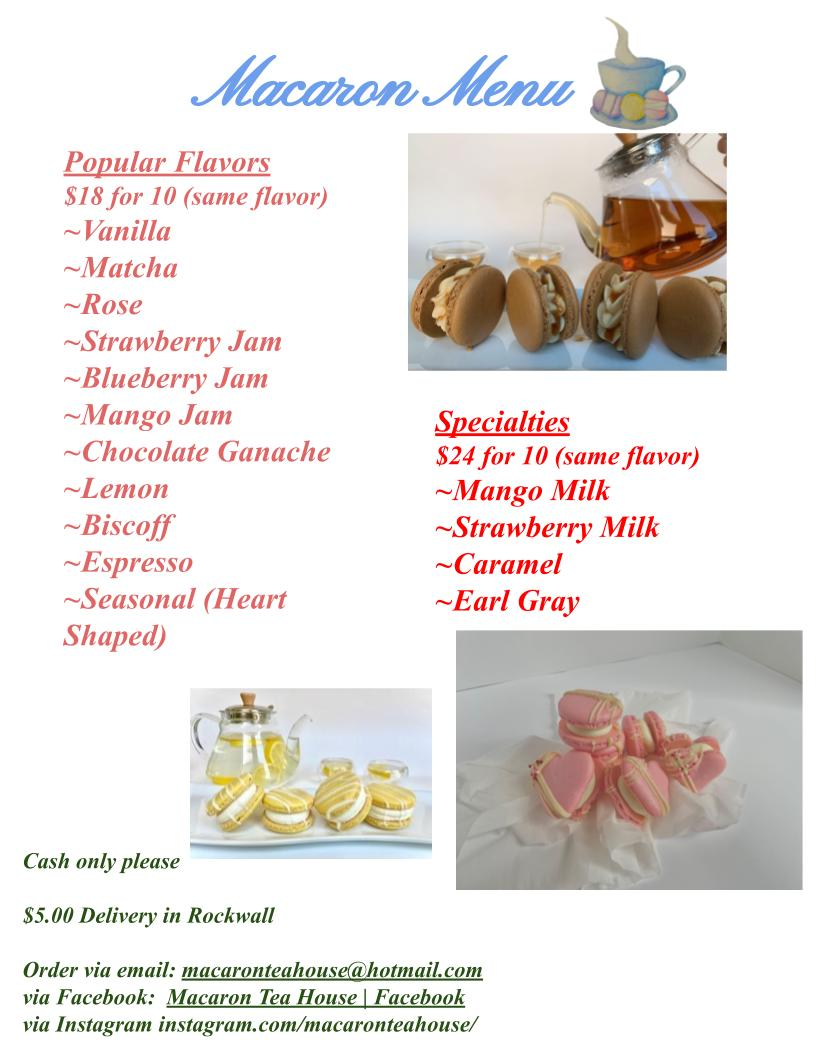
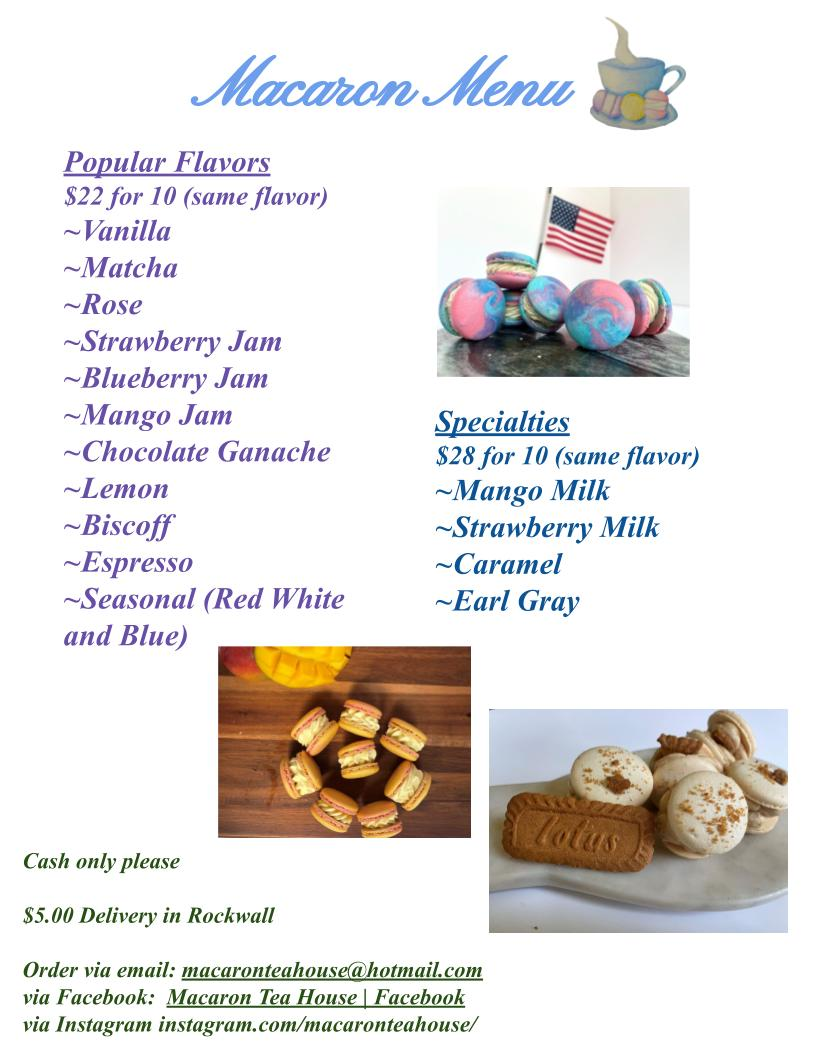
higher prices

diff --git a/A_Special.html b/A_Special.html
@@ -69,19 +69,19 @@ h1{
 
 <body>
 <container id="title">
-	<h1> <p style="font-size:200%; width:100%"> <b> <i> Chocolate Macarons </b> </i> </p> </h1>
+	<h1> <p style="font-size:200%; width:100%"> <b> <i> 4th Of July Macarons </b> </i> </p> </h1>
 </container>
 <container id="info">
 	<div id="choc">
 
-		<img src="Pictures/\cm.jpg" width="80%" height="auto">
+		<img src="Pictures/\flagmac6.jpg" width="80%" height="auto">
 	</div>
 	<div id="choc">
 
-		<p style="font-size:150%;color:#05b09f" width="100%" height="auto"> This macaron has a chocolate flavored shell with a chocolate ganache.
-		The dessert is very elegant and perfect for sharing with friends and
-		family. Take out and set at room temperature for 15-20 minutes before serving.
-		$18.00 for 10 macarons
+		<p style="font-size:150%;color:#05b09f" width="100%" height="auto">July 4th Special: Red, White, and Blue Macarons
+			This macaron has a distinct, but simple flavor of vanilla. The vibrant colors of this macaron makes it perfect for the 4th of July.
+			Enjoy it with a glass of cool lemonade. $22 for 1 box of 10
+
 
  </p>
 	</div>
@@ -91,7 +91,7 @@ h1{
 <p style="font-size:160%; color:#000000; position:relative; width:100%; margin:auto"> <u>Ingredients</u> <br>
 ~blanched almond flour <br> ~powdered sugar <br> ~free range egg whites
 <br> ~organic unbleached cane sugar <br> ~cream of tartar
-<br> ~fresh cream <br> ~chocolate
+<br> ~fresh cream <br> ~pure vanilla extract
 </div>
 
 	<div id="button-4">

diff --git a/Seasonal.html b/Seasonal.html
@@ -69,19 +69,17 @@ h1{
 
 <body>
 <container id="title">
-	<h1> <p style="font-size:200%; width:100%"> <b> <i>Bunny Macarons </b> </i> </p> </h1>
+	<h1> <p style="font-size:200%; width:100%"> <b> <i>4th July Macarons </b> </i> </p> </h1>
 </container>
 <container id="info">
 	<div id="lemonl">
-		<img src="Pictures/bunnymac1.jpg" width="80%" height="auto">
+		<img src="Pictures/flagmac5.jpg" width="80%" height="auto">
 	</div>
 	<div id="lemon">
 		<p style="font-size:150%;color:#05b09f" width="100%" height="auto">
-			Easter Special! Vanilla Flavored
-			 Bunny Macarons. Treat you and your loved ones to a special delight this year. These Macarons
-			 have a creamy, vanilla filling with a slightly chewy shell and handdrawn, unique faces out of
-			 white chocolate. Take out and set at room temperature for 15-20 minutes before serving.
-		 $24.00 for 10 macarons.
+			  July 4th Special: Red, White, and Blue Macarons
+				This macaron has a distinct, but simple flavor of vanilla. The vibrant colors of this macaron makes it perfect for the 4th of July.
+				Enjoy it with a glass of cool lemonade. $22 for 1 box of 10
 		</p>
 	</div>
 </container>

diff --git a/index.html b/index.html
@@ -246,14 +246,14 @@
 
 	<div id="carousel">
   <div class="slide">
-    <img src="Pictures/cm.jpg" alt="Slide 1" width="100%" height="auto">
+    <img src="Pictures/flagmac.jpg" alt="Slide 1" width="100%" height="auto">
   </div>
   <div class="slide">
-    <img src="Pictures/cmac.jpg" alt="Slide 2" width="100%" height="auto">
+    <img src="Pictures/flagmac4.jpg" alt="Slide 2" width="100%" height="auto">
 
   </div>
    <div class="slide">
-    <img src="Pictures/cmac2.jpg" alt="Slide 3" width="100%" height="auto">
+    <img src="Pictures/flagmac7.jpg" alt="Slide 3" width="100%" height="auto">
   </div>
 </div>
 
@@ -332,7 +332,7 @@
     <p style="position:relative;"><a href="Espresso.html"> <u> Espresso Macarons </u></a href> </p>
     </div>
     <div id="Seasonal">
-    <img src="Pictures/bunnymac1.jpg" width="100%" height="auto">
+    <img src="Pictures/flagmac2.jpg" width="100%" height="auto">
     <p style="position:relative;"><a href="Seasonal.html"><u> Seasonal Macarons </u>  </a href></p>
     </div>
   </div>

diff --git a/SL.html b/SL.html
@@ -77,7 +77,7 @@ h1{
 	</div>
 	<div id="mang">
 		<p style="font-size:150%;color:#05b09f" width="100%" height="auto">	This macaron has a distinct mango flavor and is made from real mango. It is creamy and fruity, but also
-		slightly tart. It has a cripsy outside with a soft and delicate inside. Enjoy with a cup of tea or with some mango milk. Let sit out at room temperature for 15-20 minutes before serving. $24.00 for 10 macarons.</p>
+		slightly tart. It has a cripsy outside with a soft and delicate inside. Enjoy with a cup of tea or with some mango milk. Let sit out at room temperature for 15-20 minutes before serving. $28.00 for 10 macarons.</p>
 	</div>
 	</container>
 	<container id= "both">

diff --git a/Blueberry 2.html b/Blueberry 2.html
@@ -81,7 +81,7 @@
 				<p style="font-size:150%;color:#05b09f" width="100%" height="auto"> A subtle sweet and tart flavor of the filling in the
 	      macaron. It is nice to be eaten with a cup of butterfly pea tea. (It also matches the color
 	      of the cookie).The shell of the macaron is crunchy with a soft and slightly chewy inside. This can be stored in the refrigerator for a few days. This cookie is a great option for those that cannot have dairy. Be sure to set out a room temperature for 15-20 minutes before
-	      eating. $18.00 for 10 macarons</p>
+	      eating. $22.00 for 10 macarons</p>
 			</div>
 		</container>
 	<container id= "both">

diff --git a/Vanilla.html b/Vanilla.html
@@ -80,7 +80,7 @@
 
 				<p style="font-size:150%;color:#05b09f" width="100%" height="auto">A crunchy and chewy macaron. This macaron has a distinct, but simple flavor of vanilla.
       It is great with a cup of milk or a combination of hibiscus and butterfly pea tea. This can be stored in the fridge for up to a few days. This simple yet elegant dessert is great to be enjoyed as a late afternoon snack or even whenever. :)
-		  Set it at room temperature 15-20 minutes before serving. $18.00 for 10 macarons</p>
+		  Set it at room temperature 15-20 minutes before serving. $22.00 for 10 macarons</p>
 			</div>
 		</container>
 	<container id= "both">

diff --git a/Redbean.html b/Redbean.html
@@ -80,7 +80,7 @@
 
 				<p style="font-size:150%;color:#05b09f" width="100%" height="auto">This macaron has a crunchy exterior with a creamy filling and a drizzle of caramel in between.
 				It has the perfect balance of sweet and creamy. It can be stored in the refrigerator for up to a week. Let it sit at room temperature
-				for around 15- 20 minutes before serving or eating. Enjoy it with a hot cup of oolong tea. $24.00 for 10 macarons</p>
+				for around 15- 20 minutes before serving or eating. Enjoy it with a hot cup of oolong tea. $28.00 for 10 macarons</p>
 			</div>
 		</container>
 	<container id= "both">

diff --git a/Creamcheese.html b/Creamcheese.html
@@ -80,7 +80,7 @@ h1{
 
 		<p style="font-size:150%;color:#05b09f" width="100%" height="auto">This cookie has a mildly sweet and tart flavor. The interior tastes like fresh strawberries in the summer.
 		Enjoy it with a cup of hibiscus tea. This is a great option for those who cannot have dairy.
-		Remember to let it sit out at room temperature for 15-20 minutes before eating. $18.00 for 10 macarons</p>
+		Remember to let it sit out at room temperature for 15-20 minutes before eating. $28.00 for 10 macarons</p>
 	</div>
 </container>
 <container id= "both">

diff --git a/pump.html b/pump.html
@@ -78,7 +78,7 @@ h1{
 	<div id="matcha">
 		<p style="font-size:150%;color:#05b09f" width="100%" height="auto">This macaron has a distinct matcha flavor. It has a pleasant hint of bitterness which is balanced
 			out with the sweetness in the filling. Enjoy this with a cup of warm green tea.
-			Remember to take it out of the refrigerator for 15-20 minutes before serving. $18.00 for 10 macarons</p>
+			Remember to take it out of the refrigerator for 15-20 minutes before serving. $22.00 for 10 macarons</p>
 	</div>
 	</container>
 	<container id= "both">

diff --git a/Rose.html b/Rose.html
@@ -79,7 +79,7 @@ h1{
 		<p style="font-size:150%;color:#05b09f" width="100%" height="auto">	This cookie has a mildly sweet and unique flavor.
 			It tastes like how a rose smells. It can be enjoyed with a cup of rose tea.
 			The cookie has a crunchy exterior with a soft interior.
-			Remember to let it sit out at room temperature for 15-20 minutes before eating. $18.00 for 10 macarons. </p>
+			Remember to let it sit out at room temperature for 15-20 minutes before eating. $22.00 for 10 macarons. </p>
 	</div>
 </container>
 <container id= "both">

diff --git a/Strawberry.html b/Strawberry.html
@@ -83,7 +83,7 @@
 				This dessert has a very strong strawberry flavor that is mildly tart and sweet. This can be
 			  enjoyed with a glass of strawberry milk or a light tea. The outside is crispy and the inside is soft and flavorful.
 				It tastes just like a glass of strawberry milk in macaron form. Store in the refrigerator and take out
-			  for 15-20 minutes before serving. $24.00 for 10 macarons.</p>
+			  for 15-20 minutes before serving. $28.00 for 10 macarons.</p>
 			</div>
 		</container>
 	<container id= "both">

diff --git a/Biscoff.html b/Biscoff.html
@@ -79,7 +79,7 @@ h1{
 		<p style="font-size:150%;color:#05b09f" width="100%" height="auto">
 		This macaron has a distinct biscoff flavor. It is soft on the inside but has a little crunch and
     is reminiscent of the cookies from airplane flights.
-    Remember to take it out of the fridge and set it at room temperature for 15-20 minutes. $18.00 for 10 macarons.
+    Remember to take it out of the fridge and set it at room temperature for 15-20 minutes. $22.00 for 10 macarons.
 		</p>
 	</div>
 </container>
